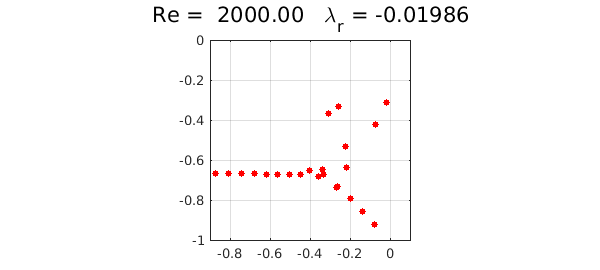
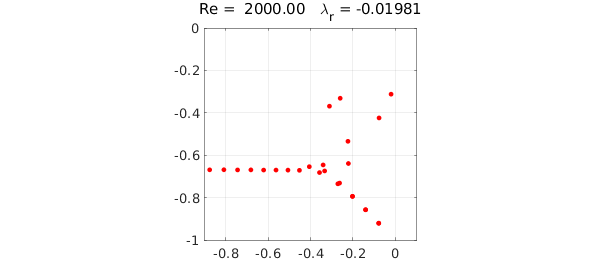
updated OrrSommerfeld example

Changed region(s): [[0.24, 0.0, 0.78, 0.9778], [0.57, 0.5037, 0.6, 0.563]]

diff --git a/examples/ode-eig/OrrSommerfeld.html b/examples/ode-eig/OrrSommerfeld.html
@@ -62,7 +62,7 @@
 <div class="row main">
 <div id='content' class="col-sm-12 example" role="main">
 <p>The Orr-Sommerfeld problem is a classic problem from the field of hydrodynamic stability.  In the simplest case it models the flow of a Newtonian fluid between two infinite plates, governed by the Navier-Stokes equations. The Reynolds number $Re$ is a nondimensional parameter corresponding roughly to velocity divided by viscosity.  For any value of $Re$ there is a smooth ("laminar") solution to the Navier-Stokes equations, but the stability, and hence the observability, of this solution is a delicate and much-studied question.  In practice one observes instability and transition to turbulence when $Re$ is in the thousands or higher.</p>
-<p>The Orr-Sommerfeld operator is the linear operator $L$ that maps infinitesimal perturbations on the laminar flow to their infinitesimal growth rates. Classically speaking we expect the flow to be stable if all the eigenvalues of $L$ lie in the left half-plane, and unstable if there are any eigenvalues in the right half-plane.</p>
+<p>The Orr-Sommerfeld operator is the linear operator $L$ that maps infinitesimal perturbations of the laminar flow to their infinitesimal growth rates. Classically speaking we expect the flow to be stable if all the eigenvalues of $L$ lie in the left half-plane, and unstable if there are any eigenvalues in the right half-plane.</p>
 <p>The following Chebfun code computes the rightmost $50$ eigenvalues of $L$ for $Re=2000$.  This mathematical formulation, due to Reddy and Henningson and described in Appendix A of [1], involves a fourth order complex generalized eigenvalue problem.</p>
 <pre class="mcode-input">Re = 2000;                  % Reynolds number
 alph = 1;                   % longitudinal Fourier parameter
@@ -71,16 +71,16 @@ A = chebop(-1,1);
 A.op = @(x,u) (diff(u,4)-2*alph^2*diff(u,2)+alph^4*u)/Re - ...
     2i*alph*u - 1i*alph*(1-x.^2).*(diff(u,2)-alph^2*u);
 B = chebop(-1,1);
-B.op = @(x,u) diff(u,2) - u;
+B.op = @(x,u) diff(u,2) - alph^2*u;
 A.lbc = [0; 0];
 A.rbc = [0; 0];
 e = eigs(A,B,50,'LR');
-FS = 'fontsize'; MS = 'markersize';
+MS = 'markersize';
 maxe = max(real(e));
-plot(e,'.r',MS,16), grid on, axis([-.9 .1 -1 0]), axis square
-title(sprintf('Re = %8.2f   \\lambda_r = %7.5f',Re,maxe),FS,16)</pre>
+plot(e,'.r',MS,14), grid on, axis([-.9 .1 -1 0]), axis square
+title(sprintf('Re = %8.2f   \\lambda_r = %7.5f',Re,maxe))</pre>
 
-<p><img src="img/OrrSommerfeld_01.png" class="figure" alt=""/></p>
+<p><img src="img/OrrSommerfeld_01.png" class="figure" alt=""></p>
 <p>(The eigenvalues on the lower-right branch are near-degenerate pairs.) Here is the same computation for $Re = 5772.22$, the critical value at which an eigenvalue first crosses into the right half-plane:</p>
 <pre class="mcode-input">Re = 5772.22; alph = 1.02;
 A.op = @(x,u) (diff(u,4)-2*alph^2*diff(u,2)+alph^4*u)/Re - ...
@@ -89,9 +89,9 @@ e = eigs(A,B,50,'LR');
 maxe = max(real(e));
 plot(e,'.r',MS,16), grid on, axis([-.9 .1 -1 0]), axis square
 title(['Re = ' sprintf('%5d',Re) ...
-   ',   \lambda_r = ' sprintf('%7.5f',maxe)],FS,16)</pre>
+   ',   \lambda_r = ' sprintf('%7.5f',maxe)])</pre>
 
-<p><img src="img/OrrSommerfeld_02.png" class="figure" alt=""/></p>
+<p><img src="img/OrrSommerfeld_02.png" class="figure" alt=""></p>
 <p>Although the Orr-Sommerfeld equation is very famous, this eigenvalue analysis actually has little to do with what makes fluid flows unstable in practice, and it is difficult to see the number $5772.22$ in the laboratory [2].</p>
 <h3 id="references">References</h3>
 <ol>

diff --git a/examples/ode-eig/img/OrrSommerfeld.html b/examples/ode-eig/img/OrrSommerfeld.html
@@ -7,7 +7,7 @@ meta: "(Chebfun example ode-eig/OrrSommerfeld.m) [Tags: #eigenvalues, #highorder
 
 The Orr-Sommerfeld problem is a classic problem from the field of hydrodynamic stability.  In the simplest case it models the flow of a Newtonian fluid between two infinite plates, governed by the Navier-Stokes equations. The Reynolds number $Re$ is a nondimensional parameter corresponding roughly to velocity divided by viscosity.  For any value of $Re$ there is a smooth ("laminar") solution to the Navier-Stokes equations, but the stability, and hence the observability, of this solution is a delicate and much-studied question.  In practice one observes instability and transition to turbulence when $Re$ is in the thousands or higher.
 
-The Orr-Sommerfeld operator is the linear operator $L$ that maps infinitesimal perturbations on the laminar flow to their infinitesimal growth rates. Classically speaking we expect the flow to be stable if all the eigenvalues of $L$ lie in the left half-plane, and unstable if there are any eigenvalues in the right half-plane.
+The Orr-Sommerfeld operator is the linear operator $L$ that maps infinitesimal perturbations of the laminar flow to their infinitesimal growth rates. Classically speaking we expect the flow to be stable if all the eigenvalues of $L$ lie in the left half-plane, and unstable if there are any eigenvalues in the right half-plane.
 
 The following Chebfun code computes the rightmost $50$ eigenvalues of $L$ for $Re=2000$.  This mathematical formulation, due to Reddy and Henningson and described in Appendix A of [1], involves a fourth order complex generalized eigenvalue problem.
 
@@ -18,14 +18,14 @@ A = chebop(-1,1);
 A.op = @(x,u) (diff(u,4)-2*alph^2*diff(u,2)+alph^4*u)/Re - ...
     2i*alph*u - 1i*alph*(1-x.^2).*(diff(u,2)-alph^2*u);
 B = chebop(-1,1);
-B.op = @(x,u) diff(u,2) - u;
+B.op = @(x,u) diff(u,2) - alph^2*u;
 A.lbc = [0; 0];
 A.rbc = [0; 0];
 e = eigs(A,B,50,'LR');
-FS = 'fontsize'; MS = 'markersize';
+MS = 'markersize';
 maxe = max(real(e));
-plot(e,'.r',MS,16), grid on, axis([-.9 .1 -1 0]), axis square
-title(sprintf('Re = %8.2f   \\lambda_r = %7.5f',Re,maxe),FS,16)</pre><img src="img/OrrSommerfeld_01.png" class="figure" alt=""/>
+plot(e,'.r',MS,14), grid on, axis([-.9 .1 -1 0]), axis square
+title(sprintf('Re = %8.2f   \\lambda_r = %7.5f',Re,maxe))</pre><img src="img/OrrSommerfeld_01.png" class="figure" alt="">
 
 (The eigenvalues on the lower-right branch are near-degenerate pairs.) Here is the same computation for $Re = 5772.22$, the critical value at which an eigenvalue first crosses into the right half-plane:
 
@@ -36,7 +36,7 @@ e = eigs(A,B,50,'LR');
 maxe = max(real(e));
 plot(e,'.r',MS,16), grid on, axis([-.9 .1 -1 0]), axis square
 title(['Re = ' sprintf('%5d',Re) ...
-   ',   \lambda_r = ' sprintf('%7.5f',maxe)],FS,16)</pre><img src="img/OrrSommerfeld_02.png" class="figure" alt=""/>
+   ',   \lambda_r = ' sprintf('%7.5f',maxe)])</pre><img src="img/OrrSommerfeld_02.png" class="figure" alt="">
 
 Although the Orr-Sommerfeld equation is very famous, this eigenvalue analysis actually has little to do with what makes fluid flows unstable in practice, and it is difficult to see the number $5772.22$ in the laboratory [2].
 

diff --git a/index.html b/index.html
@@ -269,5 +269,5 @@ plot(minx(1),minx(2),'.w')
     <script type="text/javascript" src="/js/config.js"></script>
     <script type="text/javascript" src="/js/jquery.flexslider-min.js"></script>
   </body>
-<!-- Compiled on Tuesday, 06 April 2021 at 17:06. -->
+<!-- Compiled on Tuesday, 06 April 2021 at 17:23. -->
 </html>

diff --git a/examples/ode-eig/OrrSommerfeld.m b/examples/ode-eig/OrrSommerfeld.m
@@ -18,7 +18,7 @@
 
 %%
 % The Orr-Sommerfeld operator is the linear operator $L$ that maps
-% infinitesimal perturbations on the laminar flow to their infinitesimal
+% infinitesimal perturbations of the laminar flow to their infinitesimal
 % growth rates. Classically speaking we expect the flow to be stable if all
 % the eigenvalues of $L$ lie in the left half-plane, and unstable if there are
 % any eigenvalues in the right half-plane.
@@ -35,14 +35,14 @@ A = chebop(-1,1);
 A.op = @(x,u) (diff(u,4)-2*alph^2*diff(u,2)+alph^4*u)/Re - ...
     2i*alph*u - 1i*alph*(1-x.^2).*(diff(u,2)-alph^2*u);
 B = chebop(-1,1);
-B.op = @(x,u) diff(u,2) - u;
+B.op = @(x,u) diff(u,2) - alph^2*u;
 A.lbc = [0; 0];
 A.rbc = [0; 0];
 e = eigs(A,B,50,'LR');
-FS = 'fontsize'; MS = 'markersize';
+MS = 'markersize';
 maxe = max(real(e));
-plot(e,'.r',MS,16), grid on, axis([-.9 .1 -1 0]), axis square
-title(sprintf('Re = %8.2f   \\lambda_r = %7.5f',Re,maxe),FS,16)
+plot(e,'.r',MS,14), grid on, axis([-.9 .1 -1 0]), axis square
+title(sprintf('Re = %8.2f   \\lambda_r = %7.5f',Re,maxe))
 
 %%
 % (The eigenvalues on the lower-right branch are near-degenerate pairs.)
@@ -55,7 +55,7 @@ e = eigs(A,B,50,'LR');
 maxe = max(real(e));
 plot(e,'.r',MS,16), grid on, axis([-.9 .1 -1 0]), axis square
 title(['Re = ' sprintf('%5d',Re) ...
-   ',   \lambda_r = ' sprintf('%7.5f',maxe)],FS,16)
+   ',   \lambda_r = ' sprintf('%7.5f',maxe)])
 
 %%
 % Although the Orr-Sommerfeld equation is very famous, this eigenvalue analysis
